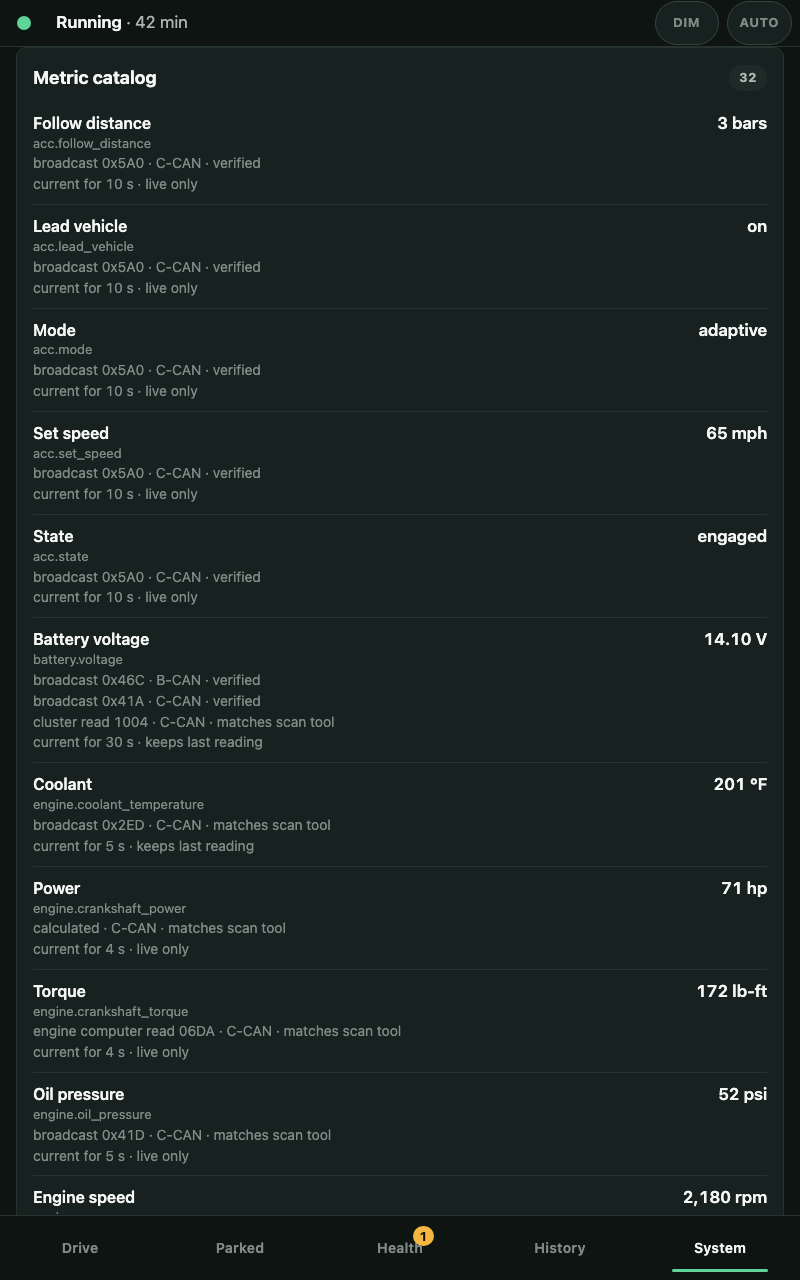
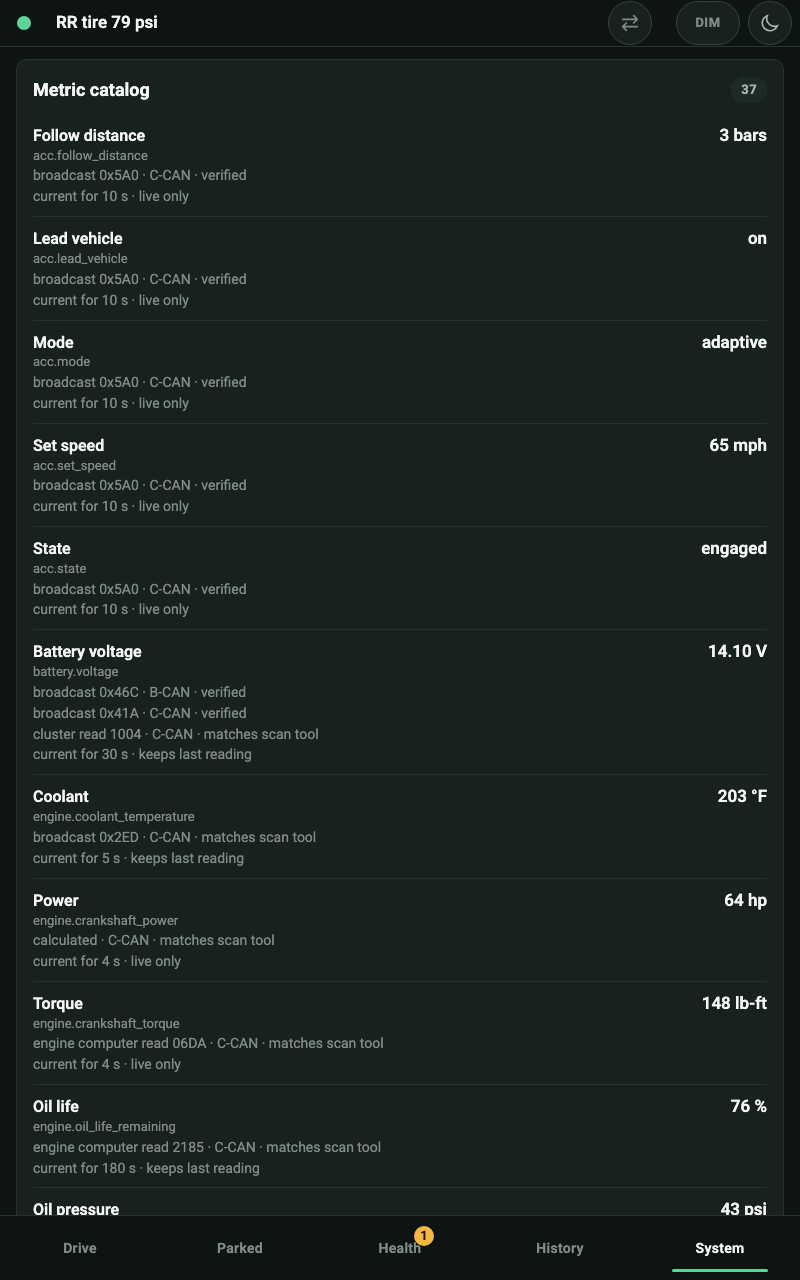
Recapture the README dashboard screenshots with demo data
Every image predated the top-bar rework (view toggle, reversed button order),
and 02-16 also predated the speed-limit sign, the economy line, This drive,
the compass, the palette rework and the light theme. All 18 are now shot from
build 00d8780d2c87 in browser_clean with Roboto, from the demo capture tools.

02 now shows the Sensors page in the light theme (it duplicated 17), and 18
is new: the radar drive calibration dialog ready to start, using a simulated
enabled-listener state with nothing started. Captions, alt text and the
manifest say the data is illustrative; the listener log shows only GETs.

diff --git a/README.md b/README.md
@@ -11,8 +11,8 @@ with each investigation living under `projects/<name>/`.
 ## Telemetry dashboard
 
 <p align="center">
-  <img src="projects/vehicle_data/dashboard/screenshots/01-drive-gauges.png" width="380" alt="Drive gauges view with illustrative demo data: 63 mph with a speed limit 65 sign beside it and instant fuel economy under the speed, RPM, temperatures, oil pressure, charging voltage, power, tire pressures, This drive time, distance and fuel economy, and light indicators">
-  <img src="projects/vehicle_data/dashboard/screenshots/17-drive-live-fuel-economy.png" width="380" alt="Drive sensors view with an estimated fuel rate of 3.3 gallons per hour and instant economy of 19 mpg, adaptive cruise, estimated gear, radar aim, and transmission speeds">
+  <img src="projects/vehicle_data/dashboard/screenshots/01-drive-gauges.png" width="380" alt="Drive gauges view with illustrative demo data: 63 mph with a speed limit 65 sign and the adaptive cruise gap beside it and instant fuel economy under the speed, RPM, temperatures, oil pressure, charging voltage, power, tire pressures, This drive time, distance and fuel economy, light indicators and compass heading">
+  <img src="projects/vehicle_data/dashboard/screenshots/17-drive-live-fuel-economy.png" width="380" alt="Drive sensors view with illustrative demo data: speed limit sign, adaptive cruise with its following gap, an estimated fuel rate of 3.3 gallons per hour and instant economy of 19 mpg, estimated gear, radar aim, transmission speeds, torque and odometer">
 </p>
 
 The tablet dashboard turns the passive three-bus telemetry stream into a driver-focused view of
@@ -27,11 +27,11 @@ performed no CAN or service actions.
 
 | Parked overview | Trip history and trends |
 |---|---|
-| <img src="projects/vehicle_data/dashboard/screenshots/03-parked-battery-tires-and-service.png" width="300" alt="Parked overview with battery trend, tire pressures, last trip, maintenance and warning summaries"> | <img src="projects/vehicle_data/dashboard/screenshots/07-history-trips-and-temperature-trends.png" width="300" alt="Trip history with recent drives, cruise summaries, and temperature trends"> |
-| Battery trend, tire pressures, last trip, maintenance, and warning summaries. | Recent trips, cruise use, recording coverage, and temperature trends. |
+| <img src="projects/vehicle_data/dashboard/screenshots/03-parked-battery-tires-and-service.png" width="300" alt="Parked overview after the demo drive: resting battery voltage with its engine-off reading and 24-hour trend, last tire pressures, last drive, service record and oil life, and the tire warning awaiting fresh readings"> | <img src="projects/vehicle_data/dashboard/screenshots/07-history-trips-and-temperature-trends.png" width="300" alt="Trip history with the drive in progress, recent drives with fuel economy and cruise summaries, and temperature trends against usual drives"> |
+| Battery trend, tire pressures, last drive, service and oil life, and warning summaries. | Drives with fuel economy and cruise use, recording status, and trends against usual drives. |
 | Health and diagnostics | Custom early warning |
-| <img src="projects/vehicle_data/dashboard/screenshots/04-health-warnings-and-diagnostics.png" width="300" alt="Health view with an early warning and diagnostic trouble codes"> | <img src="projects/vehicle_data/dashboard/screenshots/13-create-custom-early-warning.png" width="300" alt="Natural-language custom early-warning proposal and approval review"> |
-| Early warnings, evidence status, diagnostic codes, and module coverage. | Natural-language warning setup with a simulated proposal and approval review. |
+| <img src="projects/vehicle_data/dashboard/screenshots/04-health-warnings-and-diagnostics.png" width="300" alt="Health view with an open rear-right tire pressure warning, its Details and Ask Codex actions, and diagnostic trouble codes"> | <img src="projects/vehicle_data/dashboard/screenshots/13-create-custom-early-warning.png" width="300" alt="Natural-language custom early-warning proposal and approval review"> |
+| An open early warning, diagnostic codes, and module coverage. | Natural-language warning setup with a simulated proposal and approval review. |
 
 All gallery images use illustrative demo data; simulated conversations and actions are identified in
 the [capture manifest](projects/vehicle_data/dashboard/screenshots/manifest.json).
